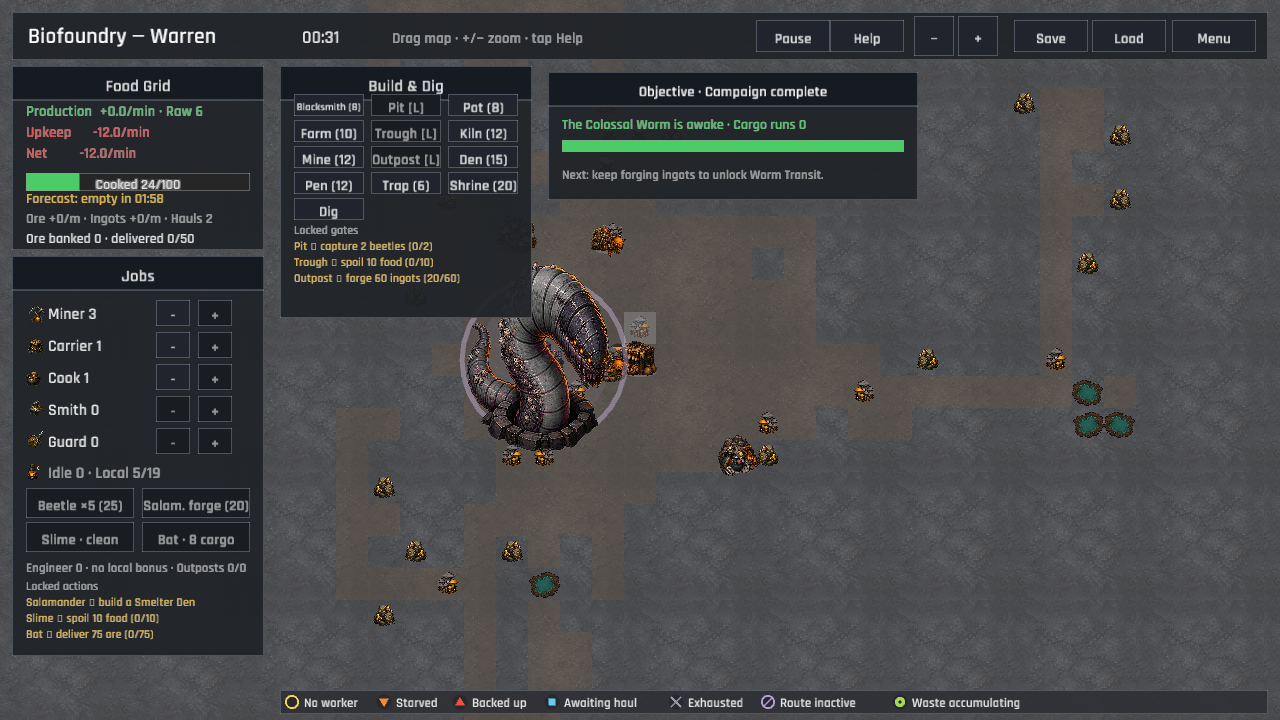
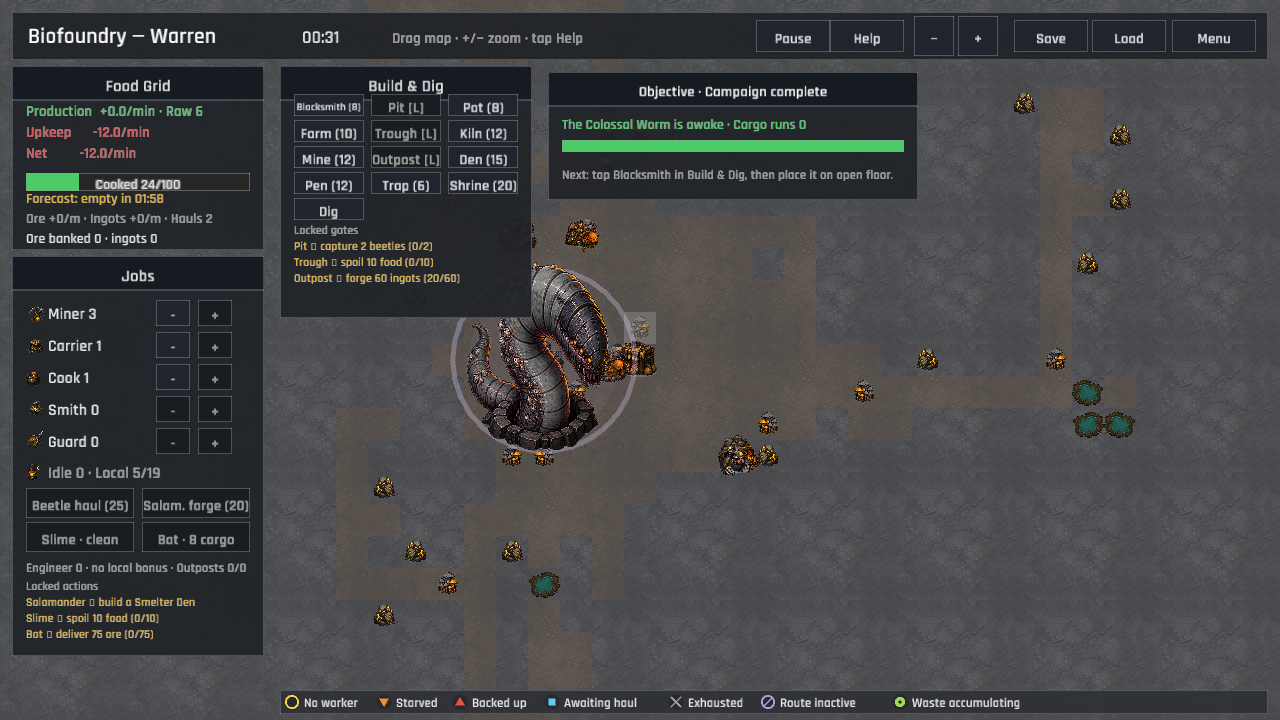
The field journal names the worm's next recovery (objective guidance, Endless slice)
The awakened objective no longer promises ingots when the warren has no Blacksmith or productive Mine. It now names the visible Build & Dig or Jobs action for Blacksmith, Mine, Smith, and Carrier recovery, with focused tests and refreshed worm/completion captures.

diff --git a/src/ui/hud/objective.rs b/src/ui/hud/objective.rs
@@ -19,39 +19,43 @@ impl CampaignObjective {
     /// Derive the current milestone without mutating the simulation.
     pub fn current(session: &GameSession, data: &GameData) -> Self {
         if session.worm_awake {
-            let next = if !session.unlocked.contains("worm_transit") {
-                "Next: keep forging ingots to unlock Worm Transit."
+            let next: String = if !session.unlocked.contains("worm_transit") {
+                endless_forge_next_step(session, data)
             } else if let Some(transit) = session.worm_transit.as_ref() {
                 match transit.direction {
                     TransitDirection::ToOutpost => {
                         "Next: wait for the worm to reach the outpost, then inspect its cargo."
+                            .to_owned()
                     }
                     TransitDirection::ToShrine => {
                         "Next: wait for the worm to reach the shrine, then plan the next run."
+                            .to_owned()
                     }
                 }
             } else if session.buildings_of("outpost").next().is_none() {
-                "Next: build a Worm Outpost and send cargo through the awakened route."
+                "Next: build a Worm Outpost and send cargo through the awakened route.".to_owned()
             } else if session.outposts.iter().any(|outpost| {
                 !outpost.active && (outpost.cargo_total() > 0 || !outpost.crew.is_empty())
             }) {
                 "Next: tap the loaded Worm Outpost, then tap Activate route to return its payload."
+                    .to_owned()
             } else if session
                 .outposts
                 .iter()
                 .any(|outpost| outpost.last_failure.is_some() && !outpost.active)
             {
                 "Next: tap the failed Worm Outpost, then tap Activate route before sending cargo."
+                    .to_owned()
             } else if session
                 .outposts
                 .iter()
                 .any(|outpost| outpost.last_failure.is_some())
             {
-                "Next: tap the failed Worm Outpost, then try the cargo run again."
+                "Next: tap the failed Worm Outpost, then try the cargo run again.".to_owned()
             } else if session.outposts.iter().any(|outpost| outpost.active) {
-                active_outpost_next_step(session, data)
+                active_outpost_next_step(session, data).to_owned()
             } else {
-                "Next: activate the Worm Outpost, then send a cargo run."
+                "Next: activate the Worm Outpost, then send a cargo run.".to_owned()
             };
             return Self {
                 title: "Campaign complete".to_owned(),
@@ -59,7 +63,7 @@ impl CampaignObjective {
                     "The Colossal Worm is awake · Cargo runs {}",
                     session.progress.courier_deliveries
                 ),
-                next: next.to_owned(),
+                next,
                 ratio: 1.0,
                 complete: true,
             };
@@ -169,6 +173,38 @@ impl CampaignObjective {
             complete: false,
         }
     }
+}
+
+fn endless_forge_next_step(session: &GameSession, data: &GameData) -> String {
+    if session.buildings_of("blacksmith").next().is_none() {
+        return "Next: tap Blacksmith in Build & Dig, then place it on open floor.".to_owned();
+    }
+    if !session.buildings_of("mine").any(|mine| mine.reserve > 0.0) {
+        return "Next: tap Mine in Build & Dig, then place a new Mine on open floor.".to_owned();
+    }
+    if session.job_count(Job::Smith) == 0 {
+        return format!(
+            "Next: {}.",
+            job_assignment_action_hint(
+                session,
+                data,
+                Job::Smith,
+                &[Job::Miner, Job::Carrier, Job::Cook, Job::Guard]
+            )
+        );
+    }
+    if session.job_count(Job::Carrier) == 0 {
+        return format!(
+            "Next: {}.",
+            job_assignment_action_hint(
+                session,
+                data,
+                Job::Carrier,
+                &[Job::Miner, Job::Cook, Job::Guard, Job::Smith]
+            )
+        );
+    }
+    "Next: keep the Blacksmith supplied while it forges ingots to unlock Worm Transit.".to_owned()
 }
 
 fn shrine_build_requirement(session: &GameSession, data: &GameData) -> (String, String) {

diff --git a/src/ui/hud/objective/tests.rs b/src/ui/hud/objective/tests.rs
@@ -139,7 +139,87 @@ fn objective_marks_the_worm_awake_as_complete() {
     );
     assert_eq!(
         objective.next,
-        "Next: keep forging ingots to unlock Worm Transit."
+        "Next: tap Blacksmith in Build & Dig, then place it on open floor."
+    );
+}
+
+#[test]
+fn awakened_objective_recovers_an_exhausted_mine_before_promising_more_ingots() {
+    let (data, mut session) = boot();
+    session.worm_awake = true;
+    let mine = session.buildings_of("mine").next().unwrap().pos;
+    session.building_at_mut(mine).unwrap().reserve = 0.0;
+
+    let objective = CampaignObjective::current(&session, &data);
+
+    assert_eq!(
+        objective.next,
+        "Next: tap Blacksmith in Build & Dig, then place it on open floor."
+    );
+
+    let blacksmith = session
+        .world
+        .tiles
+        .iter_with_pos()
+        .find(|(pos, _)| session.can_place_building(*pos))
+        .map(|(pos, _)| pos)
+        .unwrap();
+    session
+        .buildings
+        .push(Building::new("blacksmith", blacksmith));
+
+    let objective = CampaignObjective::current(&session, &data);
+    assert_eq!(
+        objective.next,
+        "Next: tap Mine in Build & Dig, then place a new Mine on open floor."
+    );
+}
+
+#[test]
+fn awakened_objective_names_the_visible_smith_recovery() {
+    let (data, mut session) = boot();
+    session.worm_awake = true;
+    let blacksmith = session
+        .world
+        .tiles
+        .iter_with_pos()
+        .find(|(pos, _)| session.can_place_building(*pos))
+        .map(|(pos, _)| pos)
+        .unwrap();
+    session
+        .buildings
+        .push(Building::new("blacksmith", blacksmith));
+
+    let objective = CampaignObjective::current(&session, &data);
+
+    assert_eq!(
+        objective.next,
+        "Next: tap − beside Miner, then + beside Smith in Jobs."
+    );
+}
+
+#[test]
+fn awakened_objective_names_the_visible_carrier_recovery() {
+    let (data, mut session) = boot();
+    session.worm_awake = true;
+    let blacksmith = session
+        .world
+        .tiles
+        .iter_with_pos()
+        .find(|(pos, _)| session.can_place_building(*pos))
+        .map(|(pos, _)| pos)
+        .unwrap();
+    session
+        .buildings
+        .push(Building::new("blacksmith", blacksmith));
+    session.creatures.clear();
+    session.spawn_creature(&data, "goblin", Job::Smith);
+
+    let objective = CampaignObjective::current(&session, &data);
+
+    assert_eq!(
+        objective.next,
+        "Next: tap − beside Smith, then + beside Carrier in Jobs."
     );
 }
 
